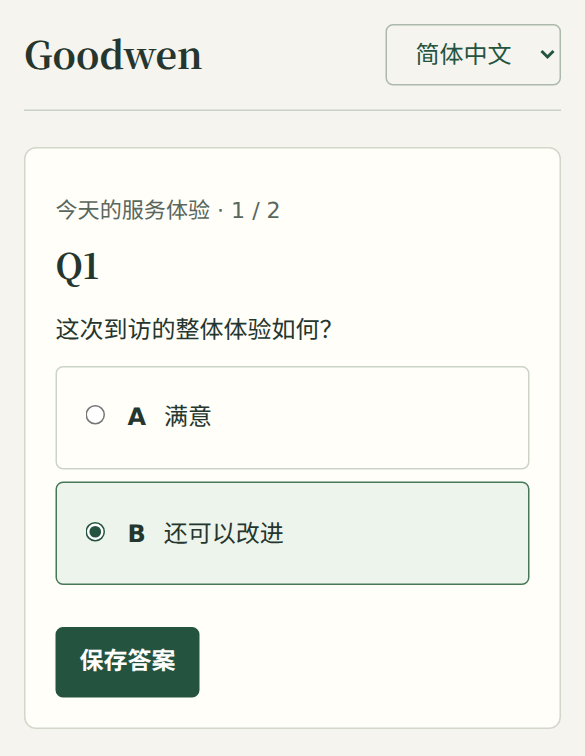
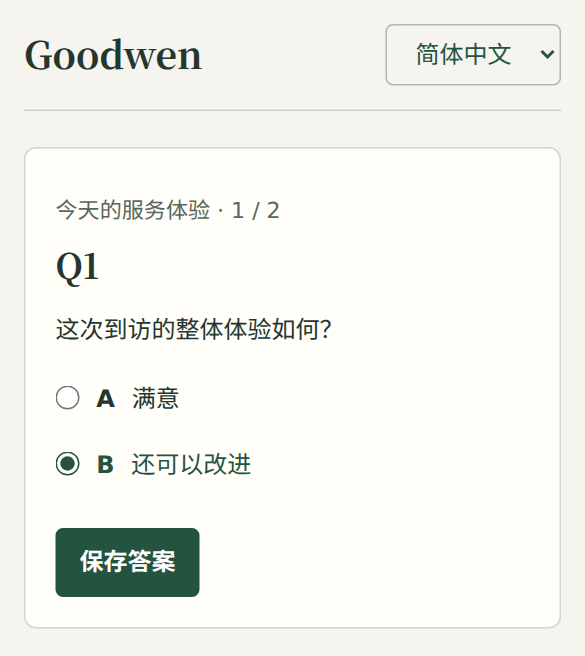
整理 README 上手教程并修正答卷核对页布局

diff --git a/skills/goodwen/assets/web/style.css b/skills/goodwen/assets/web/style.css
@@ -1,1 +1,90 @@
-*{box-sizing:border-box}html{color-scheme:light}body{margin:0;background:#f5f4ee;color:#25362e;font:16px/1.65 "Source Sans 3","Microsoft YaHei",system-ui,sans-serif}header,main{width:min(100% - 32px,720px);margin:auto}header{min-height:74px;border-bottom:1px solid #c9d0c5;display:flex;align-items:center;gap:12px}header select{margin-left:auto}.wordmark,h1,h2{font-family:"Source Serif 4",Georgia,"Songti SC",serif}.wordmark{font-weight:700;font-size:25px}#mode,.meta{color:#59675c;font-size:.92rem}main{padding:24px 0 70px}article{background:#fffef9;border:1px solid #d2d7ca;border-radius:8px;padding:clamp(20px,5vw,42px)}h1,h2{line-height:1.28;margin:.3em 0 .65em;font-weight:600}h1{font-size:clamp(1.8rem,5vw,2.45rem)}h2{font-size:1.45rem}img{max-width:100%;height:auto;border-radius:4px;display:block}p{margin:.65em 0}button,select,textarea{font:inherit}button,select{border-radius:5px;padding:9px 15px}button{cursor:pointer;background:#24543f;color:white;border:1px solid #24543f;font-weight:600}.secondary,select{color:#24543f;background:transparent;border:1px solid #acb9ab}button:disabled{opacity:.6;cursor:wait}button:focus-visible,input:focus-visible,textarea:focus-visible,select:focus-visible{outline:3px solid #c28a38;outline-offset:3px}button+button{margin-left:8px}#author{margin-bottom:22px}label.choice{display:flex;gap:12px;align-items:baseline;border:1px solid #cbd4c6;border-radius:5px;padding:10px 14px;margin:8px 0;cursor:pointer}label.choice:has(input:checked){background:#edf4eb;border-color:#477958}input{accent-color:#24543f}textarea{width:100%;min-height:7em;padding:12px}form>button,.actions{margin-top:20px}a{color:#21583e;overflow-wrap:anywhere}#error{color:#8b341e}.timer{font-variant-numeric:tabular-nums}pre{white-space:pre-wrap}table{border-collapse:collapse}td,th{padding:.35em;border:1px solid #ccd3c9}[hidden]{display:none!important}@media(max-width:520px){#author button{display:block;width:100%;margin:6px 0}}
+* { box-sizing: border-box }
+html { color-scheme: light }
+body {
+  margin: 0;
+  background: #f5f4ee;
+  color: #25362e;
+  font: 16px/1.65 "Source Sans 3", "Microsoft YaHei", system-ui, sans-serif;
+}
+header, main { width: min(100% - 32px, 720px); margin: auto }
+header {
+  display: flex;
+  align-items: center;
+  gap: 12px;
+  min-height: 74px;
+  border-bottom: 1px solid #c9d0c5;
+}
+header select { margin-inline-start: auto }
+.wordmark, h1, h2 { font-family: "Source Serif 4", Georgia, "Songti SC", serif }
+.wordmark { font-weight: 700; font-size: 25px }
+#mode, .meta { color: #59675c; font-size: .92rem }
+main { padding: 24px 0 70px }
+article {
+  background: #fffef9;
+  border: 1px solid #d2d7ca;
+  border-radius: 8px;
+  padding: clamp(20px, 5vw, 42px);
+}
+h1, h2 { line-height: 1.28; margin: .3em 0 .65em; font-weight: 600 }
+h1 { font-size: clamp(1.8rem, 5vw, 2.45rem) }
+h2 { font-size: 1.45rem }
+img { max-width: 100%; height: auto; border-radius: 4px; display: block }
+p { margin: .65em 0 }
+button, select, textarea { font: inherit }
+button, select { border-radius: 5px; padding: 9px 15px }
+button { cursor: pointer; background: #24543f; color: white; border: 1px solid #24543f; font-weight: 600 }
+.secondary, select { color: #24543f; background: transparent; border: 1px solid #acb9ab }
+button:disabled { opacity: .6; cursor: wait }
+:where(button, input, textarea, select):focus-visible { outline: 3px solid #c28a38; outline-offset: 3px }
+.actions { display: flex; flex-wrap: wrap; gap: 8px }
+#author { margin-bottom: 22px }
+form .actions { margin-block-start: 20px }
+
+.choice {
+  display: grid;
+  grid-template-columns: 1rem max-content minmax(0, 1fr);
+  align-items: baseline;
+  column-gap: .7rem;
+  padding-block: .55rem;
+  min-height: 44px;
+  cursor: pointer;
+  overflow-wrap: anywhere;
+}
+.choice input { align-self: start; margin: .32em 0 0; width: 1rem; height: 1rem; accent-color: #24543f }
+.choice:has(input:checked) { color: #24543f }
+textarea { width: 100%; min-height: 7em; padding: 12px }
+
+.review-list { display: grid; gap: 1.45rem; margin: 1.4rem 0 1.75rem; padding: 0; list-style: none }
+.review-list > li { display: grid; grid-template-columns: minmax(0, 1fr) auto; gap: .75rem; align-items: start }
+.review-body { min-width: 0; overflow-wrap: anywhere }
+.review-prompt { font-weight: 650 }
+.review-answer { margin: .25rem 0 0 }
+.review-text { white-space: pre-wrap }
+.review-option { display: grid; grid-template-columns: max-content minmax(0, 1fr); column-gap: .6rem; align-items: baseline }
+:where(.choice > div, .review-prompt, .review-option > div) > :first-child { margin-block-start: 0 }
+:where(.choice > div, .review-prompt, .review-option > div) > :last-child { margin-block-end: 0 }
+.review-edit {
+  display: flex;
+  justify-content: flex-end;
+  align-items: flex-start;
+  min-width: 44px;
+  min-height: 44px;
+  padding: 0;
+  border: 0;
+  border-radius: 0;
+  background: transparent;
+  color: #24543f;
+  font-weight: 500;
+  text-decoration: underline;
+  text-underline-offset: .2em;
+}
+a { color: #21583e; overflow-wrap: anywhere }
+#error { color: #8b341e }
+.timer { font-variant-numeric: tabular-nums }
+pre { white-space: pre-wrap }
+table { border-collapse: collapse }
+td, th { padding: .35em; border: 1px solid #ccd3c9 }
+[hidden] { display: none !important }
+@media (max-width: 520px) {
+  #author .actions { flex-direction: column }
+}

diff --git a/skills/goodwen/assets/web/app.js b/skills/goodwen/assets/web/app.js
@@ -52,19 +52,49 @@ function cover() {
   for(const line of p.instructions || [])paper.append(el("p",line));
   paper.append(btn(t("开始作答"), async()=>{state=await api("begin",{language:language.value}); draw();}));
 }
+function reviewAnswer(question, answer) {
+  if (answer == null || question.type === "short") {
+    return el("p", answer ?? "—", "review-answer review-text");
+  }
+  const selected = Array.isArray(answer) ? answer : [answer];
+  const response = el("div", null, "review-answer");
+  for (const option of question.options) {
+    if (!selected.includes(option.key)) continue;
+    const row = el("div", null, "review-option");
+    row.append(el("strong", option.key), rich(option.text_html));
+    response.append(row);
+  }
+  return response;
+}
+function review(spec) {
+  paper.append(el("h1", t("核对并提交")));
+  if (spec.behavior.allow_backtracking) {
+    const list = el("ol", null, "review-list");
+    for (const [index, question] of spec.questions.entries()) {
+      const item = el("li");
+      const body = el("div", null, "review-body");
+      const prompt = rich(question.stem_html);
+      prompt.className = "review-prompt";
+      prompt.id = "review-question-" + index;
+      body.append(prompt, reviewAnswer(question, state.answers[question.qid]));
+      const edit = btn(t("修改"), () => { editing = index; draw(); }, "review-edit");
+      edit.setAttribute("aria-label", t("修改") + " " + question.qid);
+      edit.setAttribute("aria-describedby", prompt.id);
+      item.append(body, edit);
+      list.append(item);
+    }
+    paper.append(list);
+  }
+  paper.append(btn(t("提交答卷"), async () => { state = await api("submit", {}); draw(); }));
+}
 function draw() {
   clearInterval(timer); paper.replaceChildren();
   const spec=state.spec; language.value=spec.language;
   document.documentElement.lang=spec.language;
   if (state.submitted) {appendImage(spec.end_image); paper.append(el("h1",spec.participant.completion_message));return;}
   if(editing===undefined && state.cursor===state.count) {
-    paper.append(el("h1",t("核对并提交")));
-    if(spec.behavior.allow_backtracking) {
-      for(const [index,q] of spec.questions.entries()) {
-        paper.append(btn(q.qid+" · "+(state.answers[q.qid]||"—"),()=>{editing=index;draw();},"secondary"));
-      }
-    }
-    paper.append(btn(t("提交答卷"),async()=>{state=await api("submit",{});draw();}));return;
+    review(spec);
+    return;
   }
   const pos=editing??state.cursor;
   const q=spec.behavior.allow_backtracking?spec.questions[pos]:spec.questions[0];
@@ -78,7 +108,8 @@ function draw() {
     input.checked=Array.isArray(selected)?selected.includes(o.key):selected===o.key;
     label.append(input,el("strong",o.key),rich(o.text_html));form.append(label);
   }
-  const next=el("button",t("保存答案"));next.type="submit";form.append(next);
+  const actions=el("div",null,"actions");
+  const next=el("button",t("保存答案"));next.type="submit";actions.append(next);
   form.onsubmit=async event=>{
     event.preventDefault();next.disabled=true;
     try {const values=new FormData(form).getAll("answer");
@@ -86,7 +117,8 @@ function draw() {
       editing=undefined;errorBox.textContent="";draw();
     } catch(e){errorBox.textContent=e.message;next.disabled=false;}
   };
-  if(spec.behavior.allow_backtracking && pos>0) form.append(btn(t("上一题"),()=>{editing=pos-1;draw();},"secondary"));
+  if(spec.behavior.allow_backtracking && pos>0) actions.append(btn(t("上一题"),()=>{editing=pos-1;draw();},"secondary"));
+  form.append(actions);
   paper.append(form);
   if(state.deadline) {
     const time=el("p",null,"timer");paper.append(time);const start=Date.now(),delta=state.deadline-state.server_now;

diff --git a/skills/goodwen/assets/web/index.html b/skills/goodwen/assets/web/index.html
@@ -2,5 +2,7 @@
 <html lang="zh-CN"><head><meta charset="utf-8"><meta name="viewport" content="width=device-width,initial-scale=1">
 <title>Goodwen Local</title><link rel="stylesheet" href="/static/style.css"><script defer src="/static/app.js"></script></head>
 <body><header><span class="wordmark">Goodwen</span><span id="mode"></span><select id="language" aria-label="填写语言" hidden></select></header>
-<main><section id="author" hidden><button id="publish">发布到 Goodwen，获取公网链接</button><button class="secondary" id="share">在局域网发放</button><p id="account" hidden></p><p id="notice" role="status"></p></section>
+<main><section id="author" hidden>
+<div class="actions"><button id="publish">发布到 Goodwen，获取公网链接</button><button class="secondary" id="share">在局域网发放</button></div>
+<p id="account" hidden></p><p id="notice" role="status"></p></section>
 <article id="paper" aria-live="polite"></article><p id="error" role="alert"></p></main></body></html>

diff --git a/skills/goodwen/scripts/goodwen_local/__init__.py b/skills/goodwen/scripts/goodwen_local/__init__.py
@@ -1,2 +1,2 @@
 """Goodwen Local 问卷运行器。"""
-__version__ = "0.1.3"
+__version__ = "0.1.4"

diff --git a/README.md b/README.md
@@ -1,40 +1,78 @@
-<h1><img src="packages/chatgpt/assets/icon.png" width="54" height="54" align="center" alt=""> Goodwen</h1>
+<h1 align="center"><img src="packages/chatgpt/assets/icon.png" width="76" height="76" alt=""><br>Goodwen</h1>
 
-**在你熟悉的智能体里，把工作资料做成问卷，发给真正要回答的人。** 你可以在电脑上试填，让同一 Wi-Fi 下的同事当场回答，也可以把问卷发布到 goodwen.cc，发给客户。收卷后回到对话，按这一版的真实回答整理建议。
+用 Goodwen 把手里的材料做成问卷，在智能体里查看填写者的真实回答。你可以先在电脑上试填，让同一 Wi-Fi 下的同事现场作答，也可以把问卷发布到 goodwen.cc，让外部客户用手机填写。
 
-**[下载 Goodwen](https://github.com/goodwen-cloud/goodwen/releases/latest)**　·　**[注册并打开 Goodwen](https://goodwen.cc/login)**　·　[跟着图文教程做一遍](docs/guide.md)
-
-## 从一份服务回访开始
-
-在本地 Codex 安装后，可以把这段话发给智能体。
-
-> 用 $goodwen 把自带的《服务体验回访》复制到当前目录，打开让我试填。我想知道客户对这次到访是否满意，以及最希望我们改进什么。
-
-你会得到一份带选择题和简答题的问卷。试填后可以决定在哪里收卷。
+**[下载安装包](https://github.com/goodwen-cloud/goodwen/releases/latest)**　·　**[注册或登录 Goodwen](https://goodwen.cc/login)**　·　[完整图文教程](docs/guide.md)
 
 <picture>
   <source media="(max-width: 600px)" srcset="docs/media/survey-flow-mobile.svg">
-  <img src="docs/media/survey-flow.svg" alt="服务回访问卷从资料、拟题、预览，到局域网或公网发放，再到查看正式答卷">
+  <img src="docs/media/survey-flow.svg" alt="从材料拟题、试填，到现场或网上发放，再按问卷版本查看答卷">
 </picture>
 
-## 选一个入口
+## 安装或连接 Goodwen
 
-| 你在哪里工作 | 从这里开始 |
-| --- | --- |
-| **本地 Codex** | 下载 [Windows x64](https://github.com/goodwen-cloud/goodwen/releases/latest/download/goodwen-windows-x64.zip) · [macOS Apple Silicon](https://github.com/goodwen-cloud/goodwen/releases/latest/download/goodwen-macos-arm64.zip) · [Linux x64（glibc）](https://github.com/goodwen-cloud/goodwen/releases/latest/download/goodwen-linux-x64.zip)。解压后把 `goodwen/` 放进技能目录，新会话里用 `$goodwen` 调用。安装包自带本地运行环境。 |
-| **ChatGPT** | 按[连接指引](https://goodwen.cc/agents/chatgpt)添加 Goodwen 并授权，在会话中选用 Goodwen 创建在线草稿。使用插件包导入入口时下载 [ChatGPT ZIP](https://github.com/goodwen-cloud/goodwen/releases/latest/download/goodwen-chatgpt.zip)。 |
-| **WorkBuddy** | 按[连接指引](https://goodwen.cc/agents/workbuddy)在 MCP 或连接器管理中连接 Goodwen，在工作区内发放和分析。使用连接器包导入入口时下载 [WorkBuddy ZIP](https://github.com/goodwen-cloud/goodwen/releases/latest/download/goodwen-workbuddy.zip)。 |
+### 本地 Codex
 
-## 把问卷发出去
+1. 下载适合电脑的离线包。[Windows x64](https://github.com/goodwen-cloud/goodwen/releases/latest/download/goodwen-windows-x64.zip) · [macOS Apple Silicon](https://github.com/goodwen-cloud/goodwen/releases/latest/download/goodwen-macos-arm64.zip) · [Linux x64（glibc）](https://github.com/goodwen-cloud/goodwen/releases/latest/download/goodwen-linux-x64.zip)
+2. 解压，把整个 `goodwen` 文件夹复制到 Codex 技能目录。Windows 放入 `%USERPROFILE%\.codex\skills\`，macOS 和 Linux 放入 `~/.codex/skills/`。打开复制后的文件夹，应能看到 `SKILL.md`、`scripts/` 和 `examples/`。包里已附本地运行环境。
+3. 新开一个 Codex 会话，输入下面这句话。智能体会给你一个能在本机浏览器打开的作者试填链接。
 
-**同事就在现场**　打开作者试填页，选「在局域网发放」，把返回的地址分享给同一网络的填写者。收卷期间保持电脑和本地服务运行，结束后可导出 CSV。
+> 用 $goodwen 把自带的《服务体验回访》示例复制到当前工作目录。校验并保存问卷，给我作者试填链接。
 
-**客户在别处**　选「发布到 Goodwen，获取公网链接」。首次使用时注册或登录，负责人在网页核对题目并确认发布，再把公网填写链接发给客户。问卷由 goodwen.cc 承载，关机后也能继续收卷。[打开 Goodwen](https://goodwen.cc/login)
+也可以直接附上自己的材料，说明想问谁、想弄清什么，并让智能体给你试填链接。
 
-**开始看回答**　回到智能体说「查看这一版回访的正式答卷。列出满意和希望改进的人数，引用填写者原话，帮我找出最该先改的一项。」历史本地答卷可以单独选择导入。[完整操作教程与界面截图](docs/guide.md)
+### ChatGPT 和 WorkBuddy
+
+1. 从宿主的插件或连接器入口添加 Goodwen。使用手动 MCP 连接时填入 `https://goodwen.cc/mcp`，验证方式选 OAuth。支持导入包的入口可以直接下载对应 ZIP。[ChatGPT 连接指引](https://goodwen.cc/agents/chatgpt) · [ChatGPT ZIP](https://github.com/goodwen-cloud/goodwen/releases/latest/download/goodwen-chatgpt.zip) · [WorkBuddy 连接指引](https://goodwen.cc/agents/workbuddy) · [WorkBuddy ZIP](https://github.com/goodwen-cloud/goodwen/releases/latest/download/goodwen-workbuddy.zip)
+2. 在 Goodwen 授权页注册或登录，确认权限后回到对话，选择 Goodwen。让智能体「列出我可以使用的 Goodwen 工作区」，然后选定问卷要放入的工作区。
+3. 发下面这句话。收到在线草稿的审核链接后，直接跳到本文的[发布到 goodwen.cc](#发布到-goodwencc)。
+
+> 在选定的工作区创建一份服务体验回访。第一题问整体体验，选项是「满意」「还可以改进」。第二题问「你希望我们保留或改进什么？」两题都不计分。请给我审核链接。
+
+## 先在电脑上试填
+
+打开 Codex 返回的作者试填链接，点「开始作答」，选一个答案并保存，再填写第二题。走完两题，检查措辞、选项和提交后的结束语。想改题时，把修改告诉智能体，再打开它返回的新版本。作者试填单独保存，正式收卷使用发放链接。
+
+<img src="docs/media/author-preview.png" width="660" alt="作者试填页上方可选择公网或局域网发放，下方是填写者的欢迎页和开始作答按钮">
+
+## 在同一 Wi-Fi 下收卷
+
+1. 回到作者试填页，点「在局域网发放」。把按钮下方出现的完整地址发给同一网络中的同事。收卷期间保持电脑和本地服务运行。
+2. 填写者在手机或电脑上打开地址，点「开始作答」。选择答案后点「保存答案」，填写第二题的建议，再次保存。
+3. 在「核对并提交」页检查每道题和自己的回答。需要改时，点该题右侧的「修改」，重新保存。点「提交答卷」，看到「谢谢，你的反馈已收到。」即已完成这份回访。
+
+<p align="center">
+  <img src="docs/media/answer-choice.png" width="300" alt="手机作答页，填写者已选择还可以改进">
+  <img src="docs/media/answer-review.png" width="300" alt="手机核对页，按题列出选项原文和简答，可逐题修改或提交答卷">
+</p>
+
+手机打不开时，检查两台设备是否在同一局域网，并重新复制「在局域网发放」给出的地址。`127.0.0.1` 是发起人电脑自己的试填地址。
+
+## 发布到 goodwen.cc
+
+客户在外地，或你需要关机后继续收卷时，可以把问卷放到 goodwen.cc，用公网填写链接发放。
+
+1. **打开在线草稿。** 本地用户在作者试填页点「发布到 Goodwen，获取公网链接」。首次发布会列出将保存到个人工作区的本机问卷数量，确认范围后通过 Codex 连接 Goodwen，按提示注册或登录并授权。ChatGPT 和 WorkBuddy 用户直接打开对话里返回的草稿审核链接。
+2. **由负责人确认发布。** 在 Goodwen 网页核对本版的题目、选项和计分设置，再点「确认发布」。需要改题时，回到智能体改稿并重新审核。[网页审核与发放指引](https://goodwen.cc/help/review-and-distribute)
+3. **取得填写链接。** 本地用户回到作者试填页，点「我已审核，获取链接」。在 ChatGPT 或 WorkBuddy 里可以说「为刚才批准的版本创建公开填写链接」。把**公网填写链接**发给客户，审核链接留给负责人。
+4. 用另一台设备打开填写链接，按提示完成作答。发布后由 goodwen.cc 持续收卷，发起人的电脑可以关机。已有的本地答卷保存在原设备，需要导入时另行选择工作区、问卷版本和批次并确认。
+
+![从本机发起发布、完成授权、在网页审核，到取得公网填写链接的操作示意](docs/media/publish-guide.svg)
+
+## 查看回答或导出 CSV
+
+**本地收卷**后，回到 Codex，指定刚才发放的版本和导出位置。
+
+> 查看这一版服务回访的正式答卷，列出每个选项的人数，把简答原文一起导出到当前目录的 feedback.csv。
+
+**公网收卷**后，在已连接 Goodwen 的智能体里选定同一工作区。问卷改过题时，指明要分析哪次发放的版本。
+
+> 查看刚刚发布的服务回访，统计有多少人满意、多少人希望改进。把最常见的改进建议按人数排列，每条附上对应题目和填写者原话。
+
+同一份 Codex 用户配置会复用有效的 Goodwen 授权。换设备或宿主时，在对应宿主重新连接。终端操作、选网卡和旧版升级见[完整操作教程](docs/guide.md)，在线答卷的筛选与分析见[官网指引](https://goodwen.cc/help/read-and-analyze)。
 
 ## 源码与发布
 
-技能正文、本机运行器和示例在 [skills/goodwen](skills/goodwen/)。[ChatGPT](packages/chatgpt/) 与 [WorkBuddy](packages/workbuddy/) 使用同一份正文和各自的 MCP 配置。GitHub Actions 自动构建五个安装包，并在对应系统上验证本机运行器。`main` 的新版本通过后自动发布，提供稳定下载地址和 [SHA-256 校验清单](https://github.com/goodwen-cloud/goodwen/releases/latest/download/SHA256SUMS)。
+技能正文、本机运行器和示例在 [skills/goodwen](skills/goodwen/)。[ChatGPT](packages/chatgpt/) 与 [WorkBuddy](packages/workbuddy/) 使用同一份技能正文和各自的 MCP 配置。GitHub Actions 在 Windows、macOS 和 Linux 上构建并验证本机运行器。新版本通过后自动发布五个安装包及 [SHA-256 校验清单](https://github.com/goodwen-cloud/goodwen/releases/latest/download/SHA256SUMS)。
 
-开发使用 Python 3.12。构建命令与发版规则见[构建与验收说明](docs/build-plan.md)。本项目采用 [Apache-2.0](LICENSE)，代码和依赖来源见 [NOTICE](NOTICE)。
+开发使用 Python 3.12。构建命令与发布规则见[构建与验收说明](docs/build-plan.md)。本项目采用 [Apache-2.0](LICENSE)，代码和依赖来源见 [NOTICE](NOTICE)。

diff --git a/docs/guide.md b/docs/guide.md
@@ -30,11 +30,12 @@
 
 1. 回到作者预览，点「在局域网发放」。复制按钮下方出现的完整地址，在同一局域网内的另一台电脑或手机上打开。
 2. 填写者点「开始作答」，选择一项，点「保存答案」。第二题输入自己的建议，再次保存。
-3. 在「核对并提交」页检查两道题的答案，点「提交答卷」。看到「谢谢，你的反馈已收到。」即已提交。保持发起人的电脑和本地服务运行，直到大家填完。
+3. 在「核对并提交」页检查每道题、选中的选项和简答原文。要改某一题，点它右侧的「修改」，调整答案后点「保存答案」即可回到核对页。确认后点「提交答卷」，看到「谢谢，你的反馈已收到。」即已完成这份回访。保持发起人的电脑和本地服务运行，直到大家填完。
 
-| 填写者选择答案 | 填写者核对并提交 |
-| --- | --- |
-| ![手机第一题，已选还可以改进，可以保存答案](media/answer-choice.png) | ![手机核对页，列出已填的两题并显示提交答卷按钮](media/answer-review.png) |
+<p align="center">
+  <img src="media/answer-choice.png" width="300" alt="手机第一题，已选还可以改进，可以保存答案">
+  <img src="media/answer-review.png" width="300" alt="手机核对页按题显示选项原文和简答，可逐题修改或提交">
+</p>
 
 手机无法打开时，确认它和电脑连接同一网络，复制的是「在局域网发放」生成的地址。以 `127.0.0.1` 开头的作者预览地址只在发起人的电脑上使用。多网卡电脑可以让智能体用 `share <snapshot_id> --address <本机局域网 IPv4>` 选择网卡。
 
